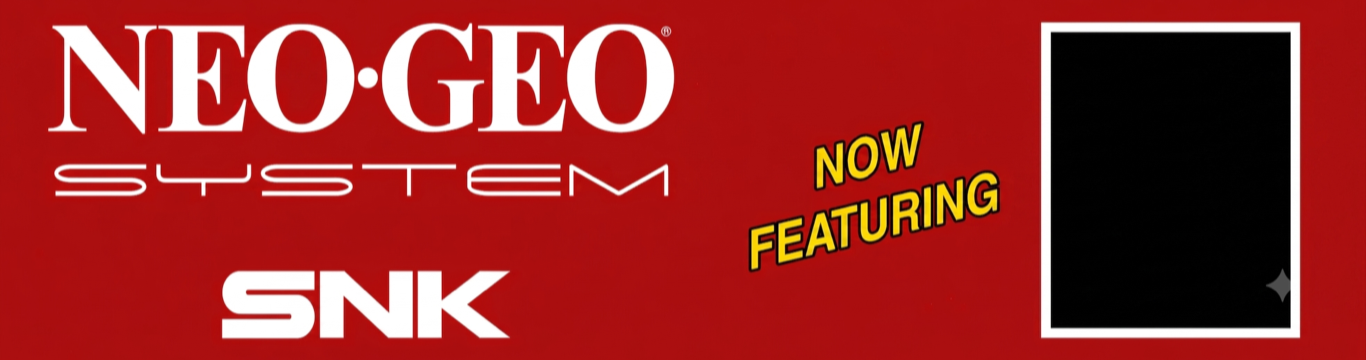
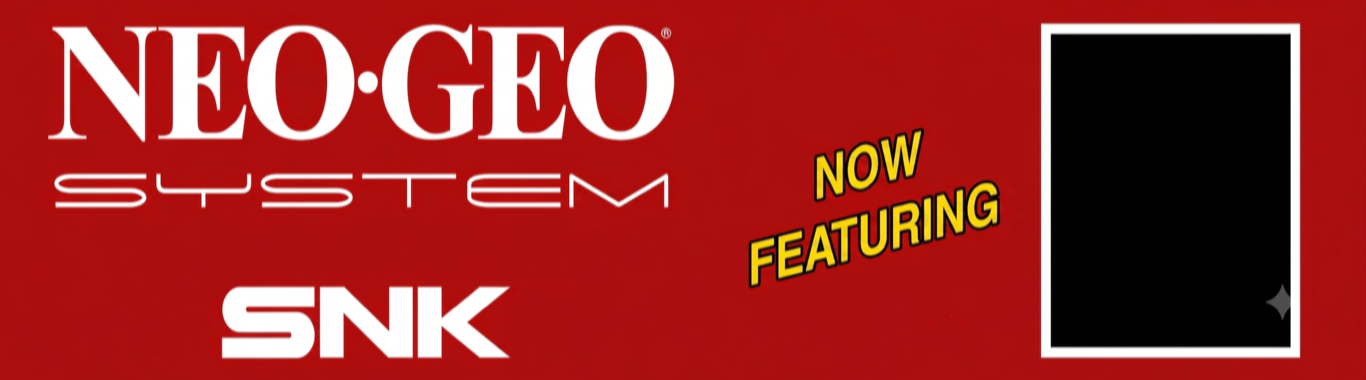
Use measured 1366x380 ultrawide canvas

diff --git a/marqueemark.py b/marqueemark.py
@@ -92,10 +92,10 @@ GENERIC = "generic"  # art/generic.png — fallback marquee for the overlay
 ELECTROCOIN_CONFIG_PATH = os.path.join(os.path.dirname(os.path.abspath(__file__)), "electrocoin.json")
 ELECTROCOIN_LAYOUTS_PATH = os.path.join(os.path.dirname(os.path.abspath(__file__)), "digital_layouts.json")
 GAME_TITLES_PATH = os.path.join(os.path.dirname(os.path.abspath(__file__)), "game_titles.json")
-ELECTROCOIN_BASE_SIZE = (1366, 360)
-# Temporary viewport-height calibration test. Restore this to the measured
-# value after testing the `Viewport Height Test` built-in template.
-ELECTROCOIN_VIEWPORT_HEIGHT = 420
+ELECTROCOIN_CANVAS_WIDTH = 1366
+ELECTROCOIN_CANVAS_HEIGHT = 380
+ELECTROCOIN_BASE_SIZE = (ELECTROCOIN_CANVAS_WIDTH, ELECTROCOIN_CANVAS_HEIGHT)
+ELECTROCOIN_VIEWPORT_HEIGHT = ELECTROCOIN_CANVAS_HEIGHT
 ELECTROCOIN_SLOT_COUNTS = (1, 2, 4, 6)
 ELECTROCOIN_SLOT_RATIO = 176 / 230
 ELECTROCOIN_DEFAULT = {"base": "electrocoin-base.png",
@@ -103,17 +103,19 @@ ELECTROCOIN_DEFAULT = {"base": "electrocoin-base.png",
     "layout_id": "electrocoin",
     "cards": [{"source": "fixed", "art": ""}, {"source": "fixed", "art": ""},
               {"source": "fixed", "art": ""}, {"source": "neosd", "art": ""}],
-    "windows": [[65, 48, 176, 230], [442, 48, 178, 230], [752, 48, 174, 230], [1125, 48, 176, 230]]}
+    "windows": [[65, 51, 176, 243], [442, 51, 178, 243], [752, 51, 174, 243], [1125, 51, 176, 243]]}
 BUILTIN_LAYOUTS = {
     "electrocoin": {"id": "electrocoin", "name": "Electrocoin 4 Slot", "base": "electrocoin-base.png",
                     "base_source": "builtin", "background_type": "image", "background_color": "#000000",
                     "windows": [list(r) for r in ELECTROCOIN_DEFAULT["windows"]]},
     "neogeo-one-slot": {"id": "neogeo-one-slot", "name": "Neo Geo 1 Slot", "base": "neogeo-one-slot.png",
                         "base_source": "builtin", "background_type": "image", "background_color": "#000000",
-                        "windows": [[1053, 34, 231, 290]]},
-    "viewport-test": {"id": "viewport-test", "name": "Viewport Height Test (temporary)", "base": "ultrawide-viewport-test.png",
+                        "windows": [[1053, 36, 231, 306]]},
+    # A diagnostic, not a normal cabinet template. Its image is deliberately
+    # 420px tall so panels with a different visible height can be measured.
+    "viewport-test": {"id": "viewport-test", "name": "Advanced: Viewport Height Test", "base": "ultrawide-viewport-test.png",
                       "base_source": "builtin", "background_type": "image", "background_color": "#000000",
-                      "windows": [[0, 0, 40, 40]]},
+                      "viewport_height": 420, "windows": [[0, 0, 40, 40]]},
 }
 
 def _art_stem(value):
@@ -131,8 +133,8 @@ def _slot_rect(value):
         return None
     try: x, y, w, h = (round(float(v)) for v in value)
     except (TypeError, ValueError): return None
-    w, h = max(40, min(w, 1366)), max(40, min(h, 360))
-    x, y = max(0, min(x, 1366 - w)), max(0, min(y, 360 - h))
+    w, h = max(40, min(w, ELECTROCOIN_CANVAS_WIDTH)), max(40, min(h, ELECTROCOIN_CANVAS_HEIGHT))
+    x, y = max(0, min(x, ELECTROCOIN_CANVAS_WIDTH - w)), max(0, min(y, ELECTROCOIN_CANVAS_HEIGHT - h))
     return [x, y, w, h]
 
 def _safe_layout_id(value):
@@ -171,10 +173,16 @@ def load_custom_layouts():
         background_type = layout.get("background_type") if layout.get("background_type") in ("image", "color") else "image"
         background_color = _hex_colour(layout.get("background_color")) or "#000000"
         windows = layout.get("windows")
+        source_height = layout.get("canvas_height", 360)
+        source_height = source_height if source_height in (360, ELECTROCOIN_CANVAS_HEIGHT) else 360
         parsed = [_slot_rect(r) for r in windows] if isinstance(windows, list) and len(windows) in ELECTROCOIN_SLOT_COUNTS else []
+        if source_height != ELECTROCOIN_CANVAS_HEIGHT:
+            parsed = [_slot_rect([r[0], round(r[1] * ELECTROCOIN_CANVAS_HEIGHT / source_height),
+                                 r[2], round(r[3] * ELECTROCOIN_CANVAS_HEIGHT / source_height)]) for r in parsed]
         if ident and ident not in seen and name and (base if background_type == "image" else True) and parsed and all(parsed):
             result.append({"id": ident, "name": name, "base": base, "background_type": background_type,
-                           "background_color": background_color, "windows": parsed}); seen.add(ident)
+                           "background_color": background_color, "windows": parsed,
+                           "canvas_height": ELECTROCOIN_CANVAS_HEIGHT}); seen.add(ident)
     return result
 
 def save_custom_layouts(layouts):
@@ -250,6 +258,16 @@ def load_electrocoin_config():
         with open(ELECTROCOIN_CONFIG_PATH) as f: raw = json.load(f)
     except (OSError, ValueError): return electro_config()
     cfg = electro_config(raw)
+    # Built-in templates and legacy custom layouts were authored on the old
+    # 360px canvas. Always use their current stored geometry on load so a
+    # layout and its card assignments cannot drift apart after an upgrade.
+    active = find_layout(cfg["layout_id"], load_custom_layouts())
+    if active:
+        cfg["base"], cfg["base_source"] = active["base"], active.get("base_source", "custom")
+        cfg["background_type"] = active.get("background_type", "image")
+        cfg["background_color"] = active.get("background_color", "#000000")
+        cfg["windows"] = [list(r) for r in active["windows"]]
+        cfg["cards"] = _cards(cfg.get("assignments", {}).get(active["id"], cfg["cards"]), len(cfg["windows"]))
     # Preserve an already-built pre-library Custom layout on upgrade rather
     # than leaving it as an anonymous one-off configuration.
     if raw.get("base_source") == "custom" and not _safe_layout_id(raw.get("layout_id")):
@@ -632,10 +650,10 @@ ADMIN_HTML = """<!DOCTYPE html>
            box-shadow: 0 18px 60px rgba(0,0,0,.65); }
   .modal-close { position: absolute; right: 12px; top: 10px; border: 0; background: transparent;
                  color: #cbd1e2; font-size: 1.6rem; cursor: pointer; }
-  #layout-preview-canvas { position: relative; width: 100%; aspect-ratio: 1366 / 360; margin-top: 12px;
+  #layout-preview-canvas { position: relative; width: 100%; aspect-ratio: 1366 / 380; margin-top: 12px;
                            background: #050508 center / cover no-repeat; border: 1px solid #5e6380; }
   #live-layout-panel { margin: 14px 0 24px; padding: 14px; border: 1px solid #30354b; border-radius: 10px; background: #141520; }
-  #live-layout-canvas { position: relative; width: min(720px,100%); aspect-ratio: 1366 / 360; margin-top: 10px;
+  #live-layout-canvas { position: relative; width: min(720px,100%); aspect-ratio: 1366 / 380; margin-top: 10px;
                          overflow: hidden; background: #050508 center / cover no-repeat; border: 1px solid #5e6380; }
   .marquee-card-image { position: absolute; object-fit: fill; }
   .neosd-placeholder { position: absolute; box-sizing: border-box; display: flex; flex-direction: column;
@@ -648,7 +666,7 @@ ADMIN_HTML = """<!DOCTYPE html>
                              letter-spacing: .08em; white-space: nowrap; }
   #layout-preview-canvas .layout-slot { pointer-events: none; }
   #custom-editor { margin-top: 14px; padding: 14px; border: 1px solid #30354b; border-radius: 10px; background: #11121b; }
-  #layout-canvas { position: relative; width: min(100%, 1000px); aspect-ratio: 1366 / 360;
+  #layout-canvas { position: relative; width: min(100%, 1000px); aspect-ratio: 1366 / 380;
                    margin-top: 12px; overflow: hidden; background: #050508 center / cover no-repeat;
                    border: 1px solid #5e6380; user-select: none; touch-action: none; }
   .layout-slot { position: absolute; box-sizing: border-box; border: 2px solid #31d7e9;
@@ -671,7 +689,7 @@ ADMIN_HTML = """<!DOCTYPE html>
 <main>
 
 <section id="electrocoin-section" class="hidden">
-  <h2>Digital Marquee <span style="color:#888;font-weight:normal;font-size:0.7em">(1366 × 360)</span></h2>
+  <h2>Digital Marquee <span style="color:#888;font-weight:normal;font-size:0.7em">(1366 × 380)</span></h2>
   <section id="live-layout-panel"><h3 class="subheading" style="margin-top:0">On display</h3>
     <p id="live-layout-name" class="hint">Loading current layout…</p><div id="live-layout-canvas" aria-label="Current digital marquee preview"></div>
   </section>
@@ -850,7 +868,8 @@ drop.ondrop = e => { e.preventDefault(); drop.classList.remove('hot');
                      upload(e.dataTransfer.files); };
 refresh();
 
-const ECO_DEFAULT_WINDOWS=[[65,48,176,230],[442,48,178,230],[752,48,174,230],[1125,48,176,230]];
+const ECO_WIDTH=1366, ECO_HEIGHT=380;
+const ECO_DEFAULT_WINDOWS=[[65,51,176,243],[442,51,178,243],[752,51,174,243],[1125,51,176,243]];
 const ECO_SLOT_RATIO=176/230, ECO_SLOT_COUNTS=[1,2,4,6];
 let ecoConfig=null, ecoFiles=[], ecoTitles={}, editingLayout=false, editingLayoutId=null, layoutDraft={base:'',background_type:'image',background_color:'#000000',windows:[]}, layoutDraftDirty=false, nameModalMode='create', uniformSlots=false, uniformLeader=0;
 let ecoLiveShort=null, ecoLiveEvents=null;
@@ -872,8 +891,8 @@ function layoutBackgroundPath(layout) {
   return layout.base_source === 'builtin' ? '/art/' : '/base/';
 }
 function positionMiniMarquee(element, slot) {
-  element.style.left=(slot[0]/1366*100)+'%'; element.style.top=(slot[1]/360*100)+'%';
-  element.style.width=(slot[2]/1366*100)+'%'; element.style.height=(slot[3]/360*100)+'%';
+  element.style.left=(slot[0]/ECO_WIDTH*100)+'%'; element.style.top=(slot[1]/ECO_HEIGHT*100)+'%';
+  element.style.width=(slot[2]/ECO_WIDTH*100)+'%'; element.style.height=(slot[3]/ECO_HEIGHT*100)+'%';
 }
 function appendMiniMarquee(canvas, card, slot, liveShort) {
   if (!card || !slot || card.source==='blank') return false;
@@ -977,8 +996,8 @@ function renderCustomEditor() {
   });
   layoutDraft.windows.forEach((slot, index) => {
     const el=document.createElement('div'); el.className='layout-slot';
-    el.style.left=(slot[0]/1366*100)+'%'; el.style.top=(slot[1]/360*100)+'%';
-    el.style.width=(slot[2]/1366*100)+'%'; el.style.height=(slot[3]/360*100)+'%';
+    el.style.left=(slot[0]/ECO_WIDTH*100)+'%'; el.style.top=(slot[1]/ECO_HEIGHT*100)+'%';
+    el.style.width=(slot[2]/ECO_WIDTH*100)+'%'; el.style.height=(slot[3]/ECO_HEIGHT*100)+'%';
     el.textContent='Slot '+(index+1);
     if (!uniform.checked || index===uniformLeader) {
       const handle=document.createElement('span'); handle.className='slot-resize'; handle.title='Resize slot';
@@ -996,7 +1015,7 @@ function updateEditorActions() {
   saving.disabled=editing ? !layoutDraftDirty : !draftIsValid();
 }
 function defaultSlots(count) {
-  const h=count>=6?190:count>=4?220:230, w=Math.round(h*ECO_SLOT_RATIO), gap=(1366-count*w)/(count+1), y=Math.round((360-h)/2);
+  const h=count>=6?190:count>=4?220:230, w=Math.round(h*ECO_SLOT_RATIO), gap=(ECO_WIDTH-count*w)/(count+1), y=Math.round((ECO_HEIGHT-h)/2);
   return Array.from({length:count},(_,i)=>[Math.round(gap+(w+gap)*i),y,w,h]);
 }
 function setSlotCount(count) {
@@ -1008,25 +1027,25 @@ function setSlotCount(count) {
   layoutDraftDirty=true; renderCustomEditor();
 }
 function clampSlotSize(slot,w,h) {
-  return [Math.max(0,Math.min(1366-w,slot[0])),Math.max(0,Math.min(360-h,slot[1])),w,h];
+  return [Math.max(0,Math.min(ECO_WIDTH-w,slot[0])),Math.max(0,Math.min(ECO_HEIGHT-h,slot[1])),w,h];
 }
 function applyUniformSize() {
   const lead=layoutDraft.windows[uniformLeader]; if (!lead) return;
   layoutDraft.windows=layoutDraft.windows.map(slot=>clampSlotSize(slot,lead[2],lead[3]));
 }
 function placeSlotElement(el, slot) {
-  el.style.left=(slot[0]/1366*100)+'%'; el.style.top=(slot[1]/360*100)+'%';
-  el.style.width=(slot[2]/1366*100)+'%'; el.style.height=(slot[3]/360*100)+'%';
+  el.style.left=(slot[0]/ECO_WIDTH*100)+'%'; el.style.top=(slot[1]/ECO_HEIGHT*100)+'%';
+  el.style.width=(slot[2]/ECO_WIDTH*100)+'%'; el.style.height=(slot[3]/ECO_HEIGHT*100)+'%';
 }
 function startSlotDrag(event, index, mode) {
   event.preventDefault(); event.stopPropagation();
   const canvas=document.getElementById('layout-canvas'), bounds=canvas.getBoundingClientRect(), start=[...layoutDraft.windows[index]], x0=event.clientX, y0=event.clientY; let moved=false;
   const slotElement=canvas.children[index];
   const move=e=>{
-    const dx=(e.clientX-x0)*1366/bounds.width, dy=(e.clientY-y0)*360/bounds.height;
+    const dx=(e.clientX-x0)*ECO_WIDTH/bounds.width, dy=(e.clientY-y0)*ECO_HEIGHT/bounds.height;
     let [x,y,w,h]=start;
-    if (mode === 'move') { x=Math.max(0,Math.min(1366-w,Math.round(x+dx))); y=Math.max(0,Math.min(360-h,Math.round(y+dy))); }
-    else { w=Math.max(60,Math.min(1366-x,(360-y)*ECO_SLOT_RATIO,Math.round(w+dx))); h=Math.round(w/ECO_SLOT_RATIO); }
+    if (mode === 'move') { x=Math.max(0,Math.min(ECO_WIDTH-w,Math.round(x+dx))); y=Math.max(0,Math.min(ECO_HEIGHT-h,Math.round(y+dy))); }
+    else { w=Math.max(60,Math.min(ECO_WIDTH-x,(ECO_HEIGHT-y)*ECO_SLOT_RATIO,Math.round(w+dx))); h=Math.round(w/ECO_SLOT_RATIO); }
     moved = moved || x!==start[0] || y!==start[1] || w!==start[2] || h!==start[3]; layoutDraft.windows[index]=[x,y,w,h];
     if (mode==='resize' && uniformSlots) applyUniformSize();
     // Move the existing overlay rather than rebuilding the canvas. Rebuilding
@@ -1144,7 +1163,7 @@ async function validateAiKey() {
   button.disabled=false; button.textContent='Validate key';
 }
 function marqueeAiPrompt(request) {
-  return 'Create a background-only digital arcade marquee design. The final physical canvas is exactly 1366 by 360 pixels, an ultra-wide 3.794:1 landscape. Compose important artwork safely within this very wide ratio; the app will crop or fit the returned image to 1366 × 360. Leave uncluttered space for mini-marquee game cards which will be placed later. Do not include readable text, game titles, logos, slot frames, UI, controls, or characters that overlap the card areas. High-quality arcade cabinet artwork. Design request: ' + request.trim();
+  return 'Create a background-only digital arcade marquee design. The final physical canvas is exactly 1366 by 380 pixels, an ultra-wide 3.595:1 landscape. Compose important artwork safely within this very wide ratio; the app will crop or fit the returned image to 1366 × 380. Leave uncluttered space for mini-marquee game cards which will be placed later. Do not include readable text, game titles, logos, slot frames, UI, controls, or characters that overlap the card areas. High-quality arcade cabinet artwork. Design request: ' + request.trim();
 }
 async function generateOpenAiImage(key, prompt, model) {
   const r=await fetch('https://api.openai.com/v1/images/generations',{method:'POST',headers:{'Content-Type':'application/json','Authorization':'Bearer '+key},body:JSON.stringify({model,prompt,size:'1536x1024',quality:'medium',output_format:'png'})});
@@ -1644,10 +1663,12 @@ class OverlayServer:
                 if existing is None:
                     ident = "custom-%d" % int(time.time() * 1000)
                     layouts.append({"id": ident, "name": name, "base": base, "background_type": background_type,
-                                    "background_color": background_color, "windows": parsed})
+                                    "background_color": background_color, "windows": parsed,
+                                    "canvas_height": ELECTROCOIN_CANVAS_HEIGHT})
                 else:
                     layouts[existing] = {"id": ident, "name": name, "base": base, "background_type": background_type,
-                                         "background_color": background_color, "windows": parsed}
+                                         "background_color": background_color, "windows": parsed,
+                                         "canvas_height": ELECTROCOIN_CANVAS_HEIGHT}
                 save_custom_layouts(layouts)
                 cfg = electro_config(server.display.electro_config)
                 if existing is None:
@@ -2002,11 +2023,13 @@ class Display:
 
     def _electro_surface(self):
         surf = pygame.Surface(self.phys); surf.fill(BG)
-        vp = pygame.Rect(0, 0, self.phys[0], min(ELECTROCOIN_VIEWPORT_HEIGHT, self.phys[1]))
+        diagnostic = BUILTIN_LAYOUTS.get(self.electro_config.get("layout_id"), {})
+        source_height = diagnostic.get("viewport_height", ELECTROCOIN_VIEWPORT_HEIGHT)
+        vp = pygame.Rect(0, 0, self.phys[0], min(source_height, self.phys[1]))
         if self.electro_config.get("background_type") == "color": surf.fill(_colour_rgb(self.electro_config.get("background_color")), vp)
         base = self._electro_base()
         if base: surf.blit(pygame.transform.smoothscale(base, vp.size), vp)
-        sx, sy = vp.w / 1366, vp.h / 360
+        sx, sy = vp.w / ELECTROCOIN_CANVAS_WIDTH, vp.h / source_height
         for r, card in zip(self.electro_config["windows"], self.electro_config["cards"]):
             target = pygame.Rect(round(r[0]*sx), round(r[1]*sy), round(r[2]*sx), round(r[3]*sy))
             stem = self.electro_neosd["short"] if card["source"] == "neosd" and self.electro_neosd else card["art"] if card["source"] == "fixed" else ""
